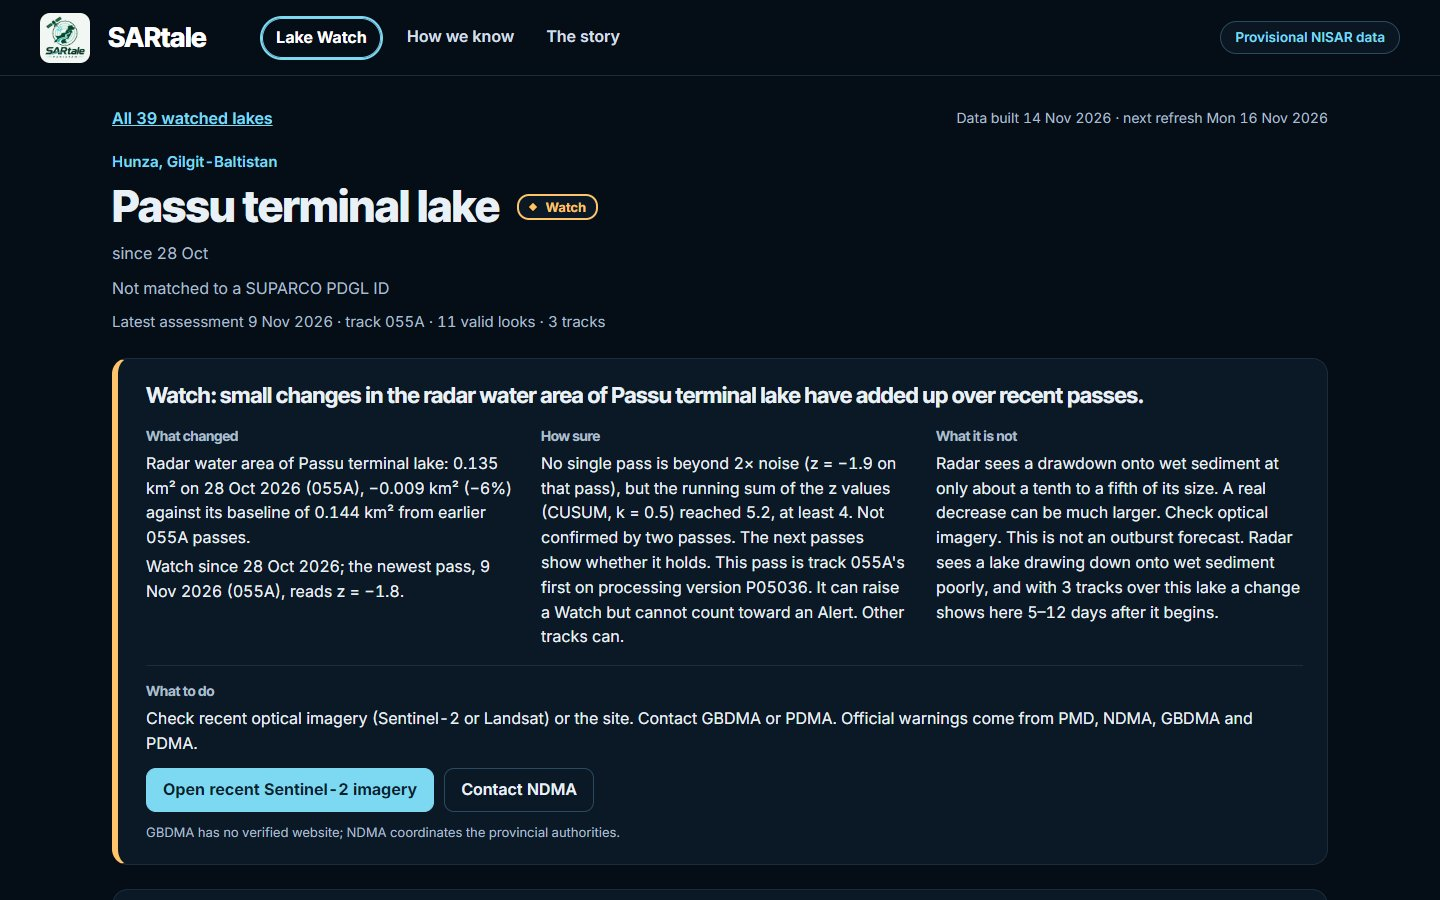
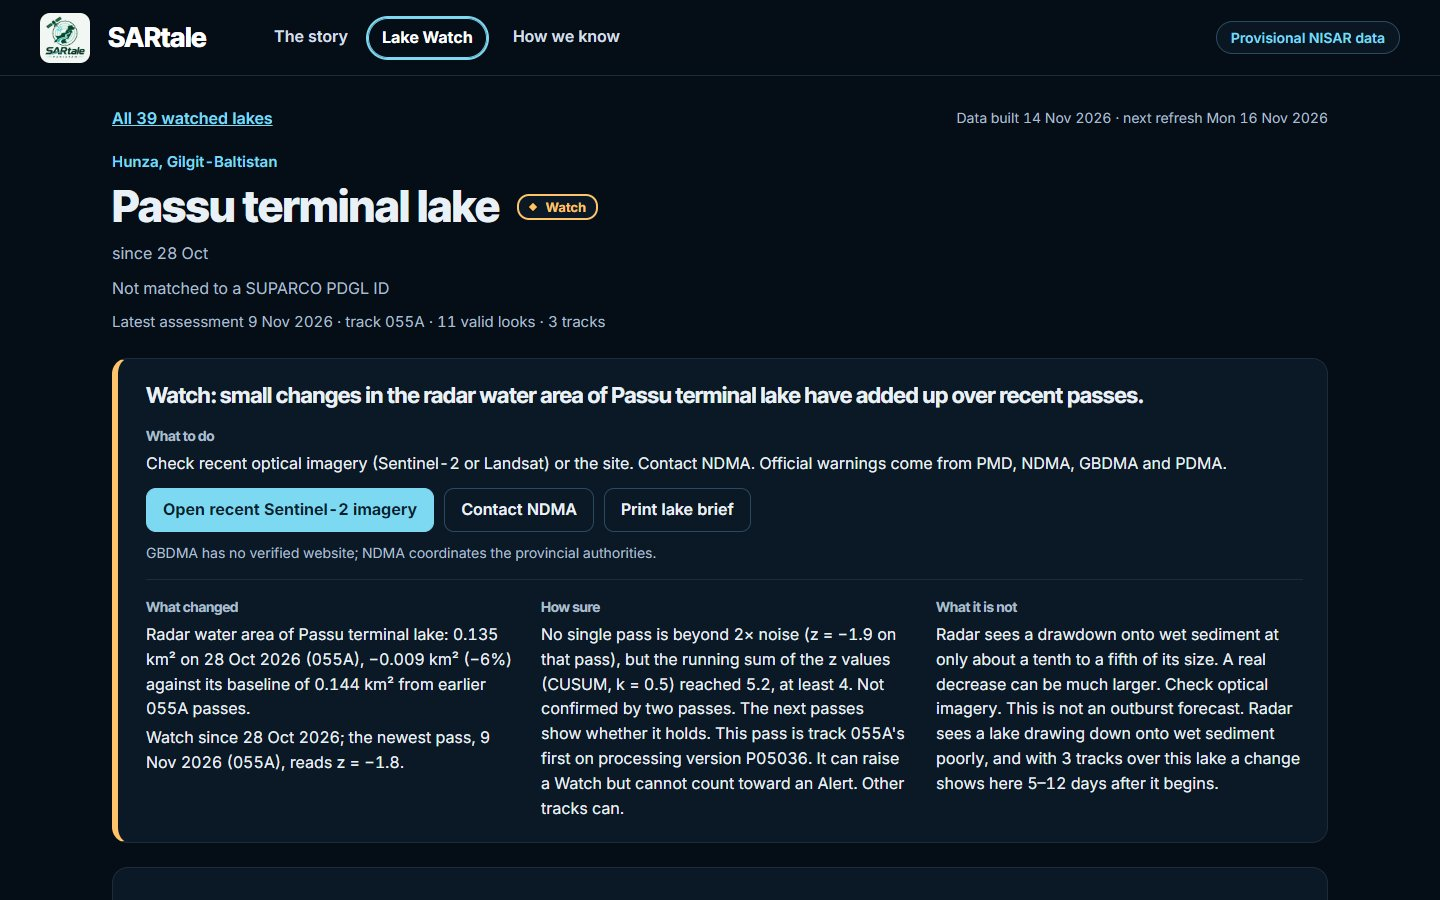
Redraw the workflow figure for method D17, the terrain mask, the frozen check and both NISAR releases, and refresh the screenshots and the guide's Lake Watch section

diff --git a/docs/guide/user-guide.html b/docs/guide/user-guide.html
@@ -28,7 +28,7 @@
 <p class="lede">The site has three views, all reached from the header: the story page, Lake Watch and How we know. Every page carries the label "Provisional NISAR data".</p>
 
 <figure>
-  <img src="assets/story.jpg" alt="The SARtale story page: headline 'When clouds close in, the lakes stay in view', two buttons and three figures: lakes watched, radar looks through the cloud gap, and NISAR passes read" width="1440" height="900">
+  <img src="assets/story.jpg" alt="The SARtale story page: headline 'When clouds close in, the lakes stay in view', the Open Lake Watch button, a line naming the lakes that need attention, and four figures from the data" width="1440" height="900">
   <figcaption>The story page opens the site. Its figures come from the data, not from the page text.</figcaption>
 </figure>
 
@@ -42,25 +42,33 @@
   <li><b>The watch:</b> every watched lake on a NASA MODIS map, coloured by status.</li>
   <li><b>Add a lake:</b> the form for putting a new lake forward, covered below.</li>
 </ol>
-<p>Choose <b>Follow the story</b> to step through the guided lake story, or <b>Open Lake Watch</b> to go straight to the lakes.</p>
+<p><b>Open Lake Watch</b> is the main button, and <b>Lake Watch</b> is highlighted in the header on every page. The line under the button ("3 lakes need attention: …") opens Lake Watch filtered to those lakes. <b>Follow the story</b> steps through the guided lake story.</p>
 
 <h2 id="lake-watch">Lake Watch<a class="anchor" href="#lake-watch" aria-label="Link to this section">#</a></h2>
 <figure>
-  <img src="assets/lake-watch.jpg" alt="Lake Watch: a satellite map of the lakes, a list of lakes with radar thumbnails and status chips, and the selected lake's status sentence and radar picture" width="1440" height="900">
-  <figcaption>Lake Watch opens on the lake with the clearest water picture. Pick any lake on the map or in the list.</figcaption>
+  <img src="assets/lake-watch.jpg" alt="Lake Watch: count tiles for the watched lakes, a key to the statuses, and a table with the lakes that need attention first" width="1440" height="900">
+  <figcaption>Lake Watch: count tiles that filter the table, a key to the statuses, and the lakes that need attention first.</figcaption>
 </figure>
-<p>Lake Watch shows every lake on a small map over a NASA MODIS picture, with a list beside it. Each row has a radar thumbnail, the status and one sentence saying what was measured. Selecting a lake opens its panel:</p>
+<p>Lake Watch is a table of every watched lake, made for the disaster management officers who follow these lakes.</p>
 <ul>
-  <li><b>Status sentence:</b> the change since earlier passes on the same track, the lake's own noise, the number of looks and the latest date.</li>
-  <li><b>Radar pictures:</b> the latest HH picture, with the water read from radar on top in blue. The slider sets how strongly the water shows. The pictures are crops on the UTM grid with north up; they are pictures, not map overlays.</li>
-  <li><b>Area by track:</b> one line per NISAR track. Hollow markers are passes left out of the trend, and the reason for each is listed below the chart.</li>
-  <li><b>Limits:</b> the method's standing limits, then any limits for that lake.</li>
-  <li><b>Print lake brief:</b> a one-page summary for a meeting or a field team, with dates, looks, noise and limits.</li>
+  <li><b>Count tiles:</b> Lakes watched, Needs attention, Open water, Frozen, Above largest extent, No lake now and Not measured. Clicking a tile filters the table. The table can also be filtered by district or SUPARCO match, or searched by name or PDGL number.</li>
+  <li><b>What the statuses mean:</b> a key with each status's marker and one plain sentence. Hovering a status chip shows the same sentence.</li>
+  <li><b>The table:</b> lakes that need attention come first. Each row gives the status and its reason or evidence, the radar water area and its change, the share of the largest mapped outline (the bar's tick marks 100%), the recent trend and the latest pass.</li>
+  <li><b>Show map:</b> the lakes on a NASA MODIS picture, each with its status marker, and the mapped lakes not watched yet as grey dots.</li>
+  <li><b>Phone:</b> the same lists as cards, with filter chips and a List / Map bar.</li>
 </ul>
-<p>Pages can be linked directly: <code>#lakes</code> opens Lake Watch, <code>#story</code> the guided story and <code>#evidence</code> How we know.</p>
+<p>Selecting a lake opens its page:</p>
+<ul>
+  <li><b>The message first:</b> the status and what to do, with buttons for recent Sentinel-2 imagery, the official contact (NDMA for Gilgit-Baltistan, PDMA for Khyber Pakhtunkhwa) and <b>Print lake brief</b>. Then what changed, how sure, and what it is not.</li>
+  <li><b>Change against baseline</b> and <b>largest recorded extent</b>, as numbers and a gauge.</li>
+  <li><b>Radar picture:</b> the latest HH picture with the water read from radar on top in blue. It is a crop on the UTM grid with north up, a picture and not a map overlay.</li>
+  <li><b>History:</b> one chart per NISAR track (a track is one repeating orbit path) with the lake's normal range, and the readings table with every pass left out and why.</li>
+  <li><b>Sources and limits:</b> the limits in plain words, and the sources in a closed section.</li>
+</ul>
+<p>Pages can be linked directly: <code>#lakes</code> opens Lake Watch, <code>#lakes/passu</code> a lake, <code>#story</code> the guided story and <code>#evidence</code> How we know.</p>
 
 <h2 id="what-each-status-means">What each status means<a class="anchor" href="#what-each-status-means" aria-label="Link to this section">#</a></h2>
-<p>Every valid pass is compared with the median of earlier passes on its own track (its baseline) and that track's noise: z = (area − baseline) / noise. A measured lake has one of four levels; every other status says why there is none.</p>
+<p>Every valid pass is compared with the median of earlier passes on its own track (its baseline) and that track's noise: z = (area − baseline) / noise. A measured lake has one of four levels; every other status says why there is none. On the site the statuses are grouped: the two frozen statuses show as <b>Frozen</b> with their evidence on a second line, and the five "not" statuses show as <b>Not measured</b> with their reason.</p>
 <div class="table-wrap"><table>
   <thead><tr><th>Status</th><th>Meaning</th></tr></thead>
   <tbody>

diff --git a/docs/guide/pages/user-guide.html b/docs/guide/pages/user-guide.html
@@ -2,7 +2,7 @@
 <p class="lede">The site has three views, all reached from the header: the story page, Lake Watch and How we know. Every page carries the label "Provisional NISAR data".</p>
 
 <figure>
-  <img src="assets/story.jpg" alt="The SARtale story page: headline 'When clouds close in, the lakes stay in view', two buttons and three figures: lakes watched, radar looks through the cloud gap, and NISAR passes read" width="1440" height="900">
+  <img src="assets/story.jpg" alt="The SARtale story page: headline 'When clouds close in, the lakes stay in view', the Open Lake Watch button, a line naming the lakes that need attention, and four figures from the data" width="1440" height="900">
   <figcaption>The story page opens the site. Its figures come from the data, not from the page text.</figcaption>
 </figure>
 
@@ -16,25 +16,33 @@
   <li><b>The watch:</b> every watched lake on a NASA MODIS map, coloured by status.</li>
   <li><b>Add a lake:</b> the form for putting a new lake forward, covered below.</li>
 </ol>
-<p>Choose <b>Follow the story</b> to step through the guided lake story, or <b>Open Lake Watch</b> to go straight to the lakes.</p>
+<p><b>Open Lake Watch</b> is the main button, and <b>Lake Watch</b> is highlighted in the header on every page. The line under the button ("3 lakes need attention: …") opens Lake Watch filtered to those lakes. <b>Follow the story</b> steps through the guided lake story.</p>
 
 <h2>Lake Watch</h2>
 <figure>
-  <img src="assets/lake-watch.jpg" alt="Lake Watch: a satellite map of the lakes, a list of lakes with radar thumbnails and status chips, and the selected lake's status sentence and radar picture" width="1440" height="900">
-  <figcaption>Lake Watch opens on the lake with the clearest water picture. Pick any lake on the map or in the list.</figcaption>
+  <img src="assets/lake-watch.jpg" alt="Lake Watch: count tiles for the watched lakes, a key to the statuses, and a table with the lakes that need attention first" width="1440" height="900">
+  <figcaption>Lake Watch: count tiles that filter the table, a key to the statuses, and the lakes that need attention first.</figcaption>
 </figure>
-<p>Lake Watch shows every lake on a small map over a NASA MODIS picture, with a list beside it. Each row has a radar thumbnail, the status and one sentence saying what was measured. Selecting a lake opens its panel:</p>
+<p>Lake Watch is a table of every watched lake, made for the disaster management officers who follow these lakes.</p>
 <ul>
-  <li><b>Status sentence:</b> the change since earlier passes on the same track, the lake's own noise, the number of looks and the latest date.</li>
-  <li><b>Radar pictures:</b> the latest HH picture, with the water read from radar on top in blue. The slider sets how strongly the water shows. The pictures are crops on the UTM grid with north up; they are pictures, not map overlays.</li>
-  <li><b>Area by track:</b> one line per NISAR track. Hollow markers are passes left out of the trend, and the reason for each is listed below the chart.</li>
-  <li><b>Limits:</b> the method's standing limits, then any limits for that lake.</li>
-  <li><b>Print lake brief:</b> a one-page summary for a meeting or a field team, with dates, looks, noise and limits.</li>
+  <li><b>Count tiles:</b> Lakes watched, Needs attention, Open water, Frozen, Above largest extent, No lake now and Not measured. Clicking a tile filters the table. The table can also be filtered by district or SUPARCO match, or searched by name or PDGL number.</li>
+  <li><b>What the statuses mean:</b> a key with each status's marker and one plain sentence. Hovering a status chip shows the same sentence.</li>
+  <li><b>The table:</b> lakes that need attention come first. Each row gives the status and its reason or evidence, the radar water area and its change, the share of the largest mapped outline (the bar's tick marks 100%), the recent trend and the latest pass.</li>
+  <li><b>Show map:</b> the lakes on a NASA MODIS picture, each with its status marker, and the mapped lakes not watched yet as grey dots.</li>
+  <li><b>Phone:</b> the same lists as cards, with filter chips and a List / Map bar.</li>
 </ul>
-<p>Pages can be linked directly: <code>#lakes</code> opens Lake Watch, <code>#story</code> the guided story and <code>#evidence</code> How we know.</p>
+<p>Selecting a lake opens its page:</p>
+<ul>
+  <li><b>The message first:</b> the status and what to do, with buttons for recent Sentinel-2 imagery, the official contact (NDMA for Gilgit-Baltistan, PDMA for Khyber Pakhtunkhwa) and <b>Print lake brief</b>. Then what changed, how sure, and what it is not.</li>
+  <li><b>Change against baseline</b> and <b>largest recorded extent</b>, as numbers and a gauge.</li>
+  <li><b>Radar picture:</b> the latest HH picture with the water read from radar on top in blue. It is a crop on the UTM grid with north up, a picture and not a map overlay.</li>
+  <li><b>History:</b> one chart per NISAR track (a track is one repeating orbit path) with the lake's normal range, and the readings table with every pass left out and why.</li>
+  <li><b>Sources and limits:</b> the limits in plain words, and the sources in a closed section.</li>
+</ul>
+<p>Pages can be linked directly: <code>#lakes</code> opens Lake Watch, <code>#lakes/passu</code> a lake, <code>#story</code> the guided story and <code>#evidence</code> How we know.</p>
 
 <h2>What each status means</h2>
-<p>Every valid pass is compared with the median of earlier passes on its own track (its baseline) and that track's noise: z = (area − baseline) / noise. A measured lake has one of four levels; every other status says why there is none.</p>
+<p>Every valid pass is compared with the median of earlier passes on its own track (its baseline) and that track's noise: z = (area − baseline) / noise. A measured lake has one of four levels; every other status says why there is none. On the site the statuses are grouped: the two frozen statuses show as <b>Frozen</b> with their evidence on a second line, and the five "not" statuses show as <b>Not measured</b> with their reason.</p>
 <div class="table-wrap"><table>
   <thead><tr><th>Status</th><th>Meaning</th></tr></thead>
   <tbody>

diff --git a/README.md b/README.md
@@ -34,7 +34,7 @@ Radar sees through cloud, day or night. From 17 June to 4 August 2026, while clo
 
 ## What it does
 
-The site opens on **Lake Watch**, a table of every watched lake for the officers at NDMA, GBDMA and PDMA KP. It now watches **39 lakes** in Gilgit-Baltistan and upper Khyber Pakhtunkhwa, with 503 more mapped lakes shown on the map as candidates.
+The site opens on the story page, with **Open Lake Watch** as its main button. Lake Watch is a table of every watched lake for the officers at NDMA, GBDMA and PDMA KP. It now watches **39 lakes** in Gilgit-Baltistan and upper Khyber Pakhtunkhwa, with 503 more mapped lakes shown on the map as candidates.
 
 - **One plain status per lake, with the reason on a second line.**
 
